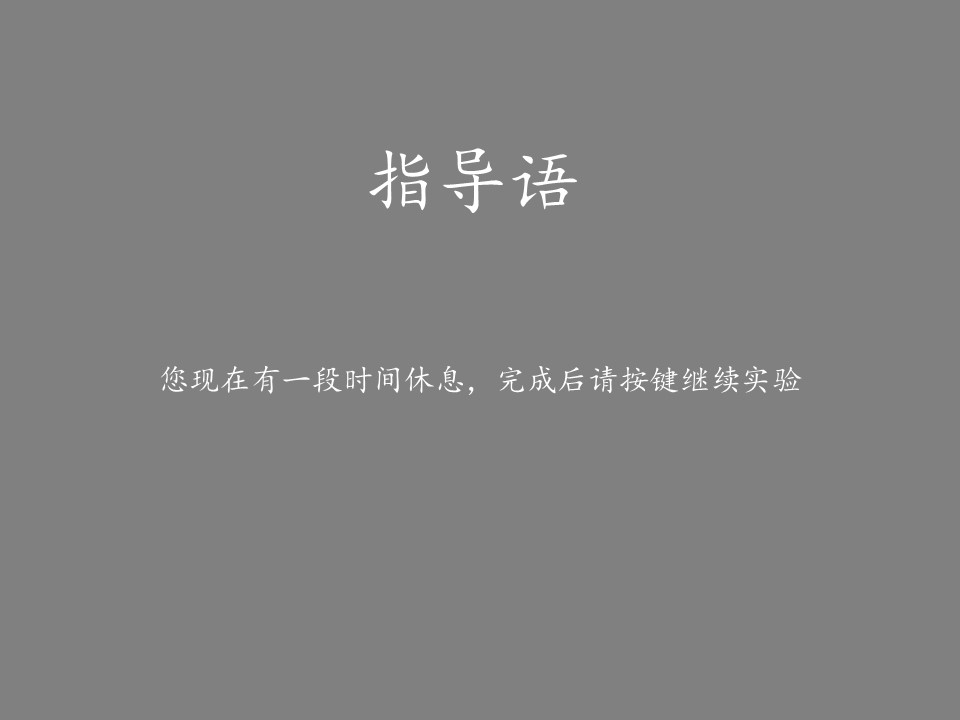
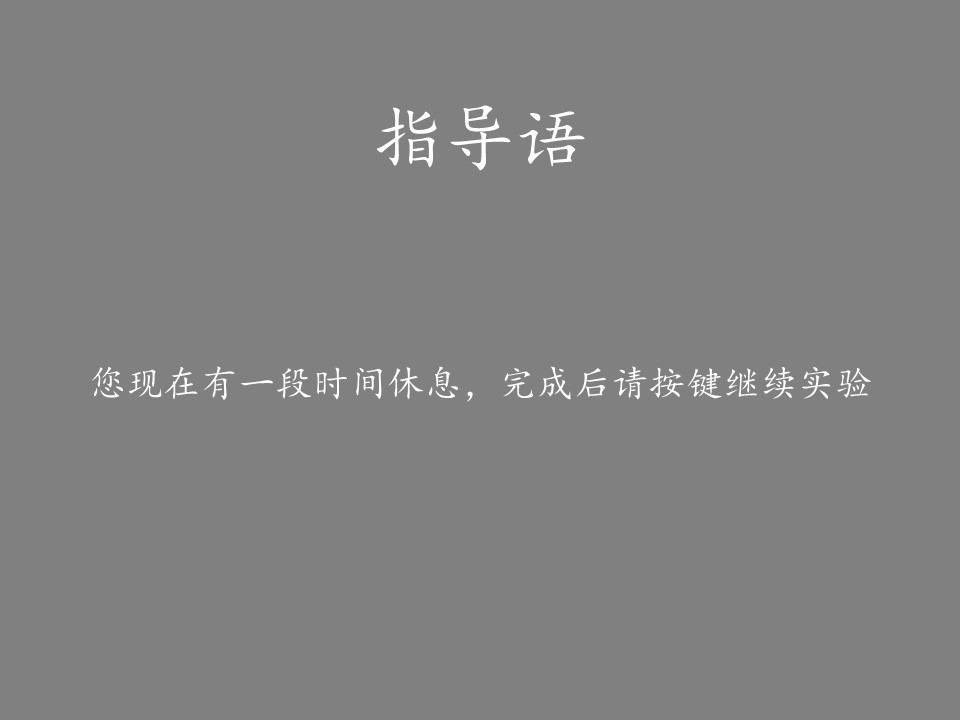
Modify instruction and stimulus onset

Changed region(s): [[0.0938, 0.4889, 0.9062, 0.55], [0.375, 0.1528, 0.625, 0.3056]]

diff --git a/ptbBrainImageNet.m b/ptbBrainImageNet.m
@@ -125,10 +125,6 @@ for runIndex = 1:10
     responseArr = cell(100, 3);
     trailIndex = 1;
     while 1
-        % show fixation for all time
-        Screen('DrawDots', wptr, [xCenter,yCenter], fixPixelHor+5, [50 50 50], [], 2);
-        Screen('DrawDots', wptr, [xCenter,yCenter], fixPixelHor, fixColor, [], 2);
-        Screen('Flip', wptr);
         % show stimulus at the right time
         stimOnsetSingle = stimOnset(trailIndex, 1);
         tCurrent = floor(GetSecs - tStart);
